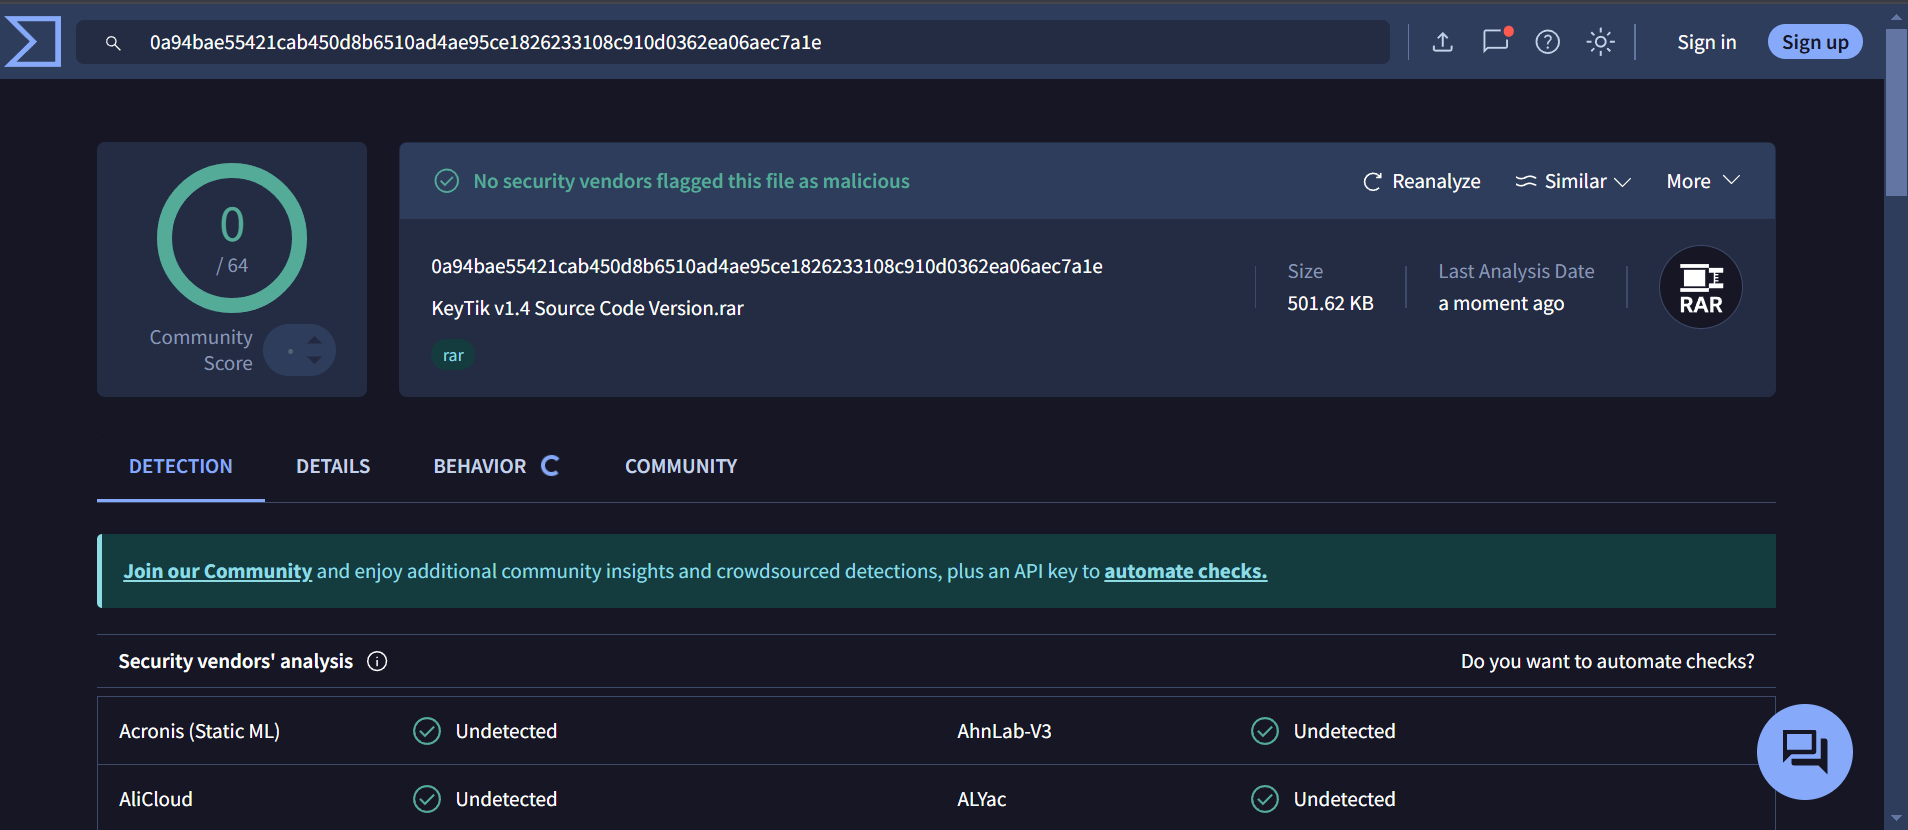
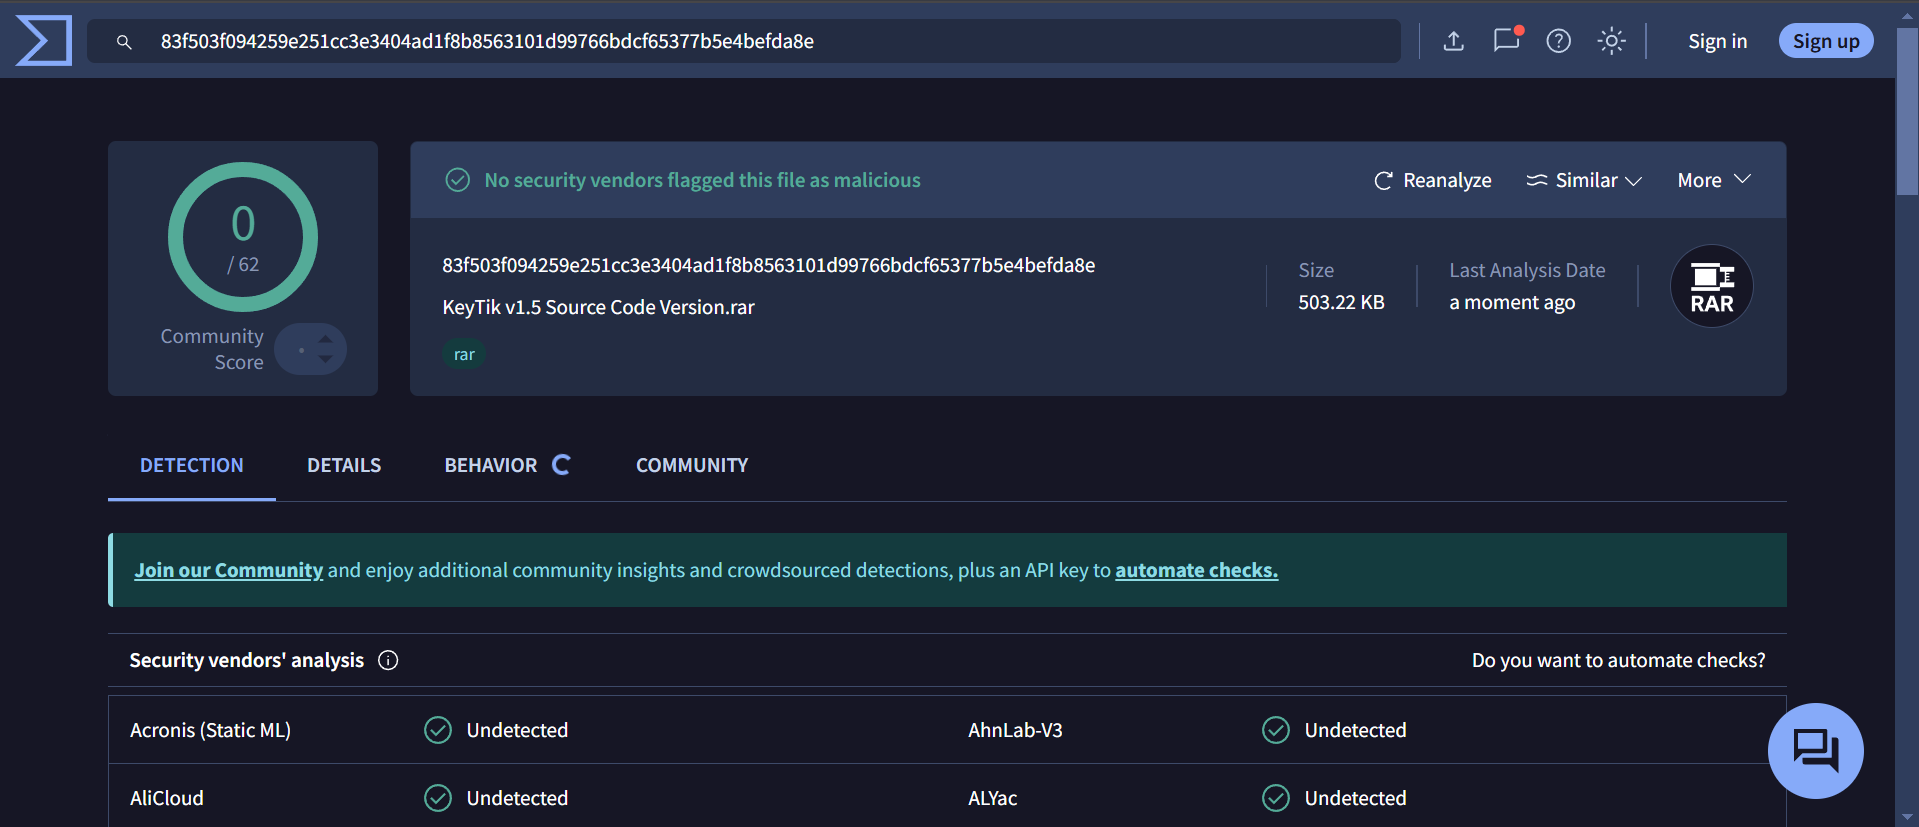
Update Website Info To KeyTik v1.5.0

diff --git a/introduction/safety/index.html b/introduction/safety/index.html
@@ -397,18 +397,18 @@
 <p>The advantage of the Source Code Version is that you can review the entire code and compile it yourself, ensuring there’s nothing suspicious. This is especially useful because once a program is compiled into an executable, it’s harder to review the raw code.</p>
 <h2 id="why-the-normal-version-may-be-flagged-as-malware" tabindex="-1">Why the Normal Version May Be Flagged as Malware <a class="anchor" href="#why-the-normal-version-may-be-flagged-as-malware">#</a></h2>
 <p>Some antivirus programs may flag the normal compiled version as malware. This is because of how PyInstaller packages the code into an executable. Even though the code is clean and free from malware, PyInstaller's packaging process can trigger false positives in certain antivirus engines.</p>
-<p>For example, when I scan KeyTik v1.4 (source code version) using VirusTotal, it passes without any issues. However, the normal compiled version can be flagged as malware due to the way PyInstaller works.</p>
+<p>For example, when I scan KeyTik 5 (source code version) using VirusTotal, it passes without any issues. However, the normal compiled version can be flagged as malware due to the way PyInstaller works.</p>
 <blockquote>
 <p><strong>TIP</strong>:
 <br>
 <strong>If you're still concerned, you can download the source code version, build it yourself, and scan it again with VirusTotal. You'll likely see the same result — the executable built with PyInstaller will be flagged as malware, but it’s a false positive.</strong></p>
 </blockquote>
 <h2 id="scan-results" tabindex="-1">Scan Results <a class="anchor" href="#scan-results">#</a></h2>
-<p>Here’s the VirusTotal scan for KeyTik v1.4 (source code version):</p>
+<p>Here’s the VirusTotal scan for KeyTik v1.5.0 (source code version):</p>
 <ul>
 <li>
 <p><strong>Report Screenshot</strong>:
-<img src="/img/cover/report.png" alt="Virus Total Report v1.4"></p>
+<img src="/img/cover/report.png" alt="Virus Total Report v1.5.0"></p>
 </li>
 <li>
 <p><strong>Full scan report</strong>:</p>

diff --git a/getting-started/installation/index.html b/getting-started/installation/index.html
@@ -410,8 +410,8 @@
 <ul>
 <li>KeyTik GitHub Release: https://github.com/Fajar-RahmadJaya/KeyTik/releases.</li>
 <li>There are 2 option to download, normal version and source code version.</li>
-<li>If you want simple version in executable form, you can download the normal version (In release it's the zip file without 'open source version' name on it, example KeyTik.v1.4.rar). In normal version you can directly double click the exe file to run KeyTik.</li>
-<li>If you want the raw code only, you can download source code version (In release it's the zip file with 'open source version' name on it, example KeyTik.v1.4.Source.Code.Download.Version.rar). To make it work, you need to install required python library or build it into executable yourself. I have added guide to build it into the download or you can see it in <a href="https://github.com/Fajar-RahmadJaya/KeyTik/blob/main/Build%20Guide.txt">here</a>.</li>
+<li>If you want simple version in executable form, you can download the normal version (In release it's the zip file without 'open source version' name on it, example KeyTik.v1.5.0.rar). In normal version you can directly double click the exe file to run KeyTik.</li>
+<li>If you want the raw code only, you can download source code version (In release it's the zip file with 'open source version' name on it, example KeyTik.v1.5.0.Source.Code.Download.Version.rar). To make it work, you need to install required python library or build it into executable yourself. I have added guide to build it into the download or you can see it in <a href="https://github.com/Fajar-RahmadJaya/KeyTik/blob/main/Build%20Guide.txt">here</a>.</li>
 <li>Source Forge: https://sourceforge.net/projects/keytik.</li>
 </ul>
 </li>

diff --git a/changelog/index.html b/changelog/index.html
@@ -367,6 +367,31 @@
         <div class="l-list__inner l-list__inner--changelog">
             
                 <div class="changelog-item">
+                    <time datetime="2024-12-15T00:00:00.000Z" class="changelog-item__date">December 15, 2024</time>
+                    <div class="changelog-item__body post-content">
+                        <h2 class="changelog-item__title">v1.5.0</h2>
+                        <ul>
+                            
+                                <li><p>Change Key List Content.</p>
+</li>
+                            
+                                <li><p>Add a dropdown to select key.</p>
+</li>
+                            
+                                <li><p>Make the default and remap key also able to take multiple key combination.</p>
+</li>
+                            
+                                <li><p>Fix text mode shortcut addition error.</p>
+</li>
+                            
+                                <li><p>Create KeyTik official Webiste at https://keytik.netlify.app/.</p>
+</li>
+                            
+                        </ul>
+                    </div>
+                </div>
+            
+                <div class="changelog-item">
                     <time datetime="2024-12-05T00:00:00.000Z" class="changelog-item__date">December 05, 2024</time>
                     <div class="changelog-item__body post-content">
                         <h2 class="changelog-item__title">v1.4</h2>

diff --git a/introduction/overview/index.html b/introduction/overview/index.html
@@ -416,7 +416,7 @@
 <li>
 <p><strong>Lightweight and Easy to Use</strong>:</p>
 <ul>
-<li>It’s only 85.9MB!! (KeyTik v1.4)</li>
+<li>It’s only 85.9MB!! (KeyTik v1.5.0)</li>
 <li>User friendly and simple GUI to boost functionality and simplicity</li>
 <li>Easy to understand while providing plenty of features.</li>
 </ul>
